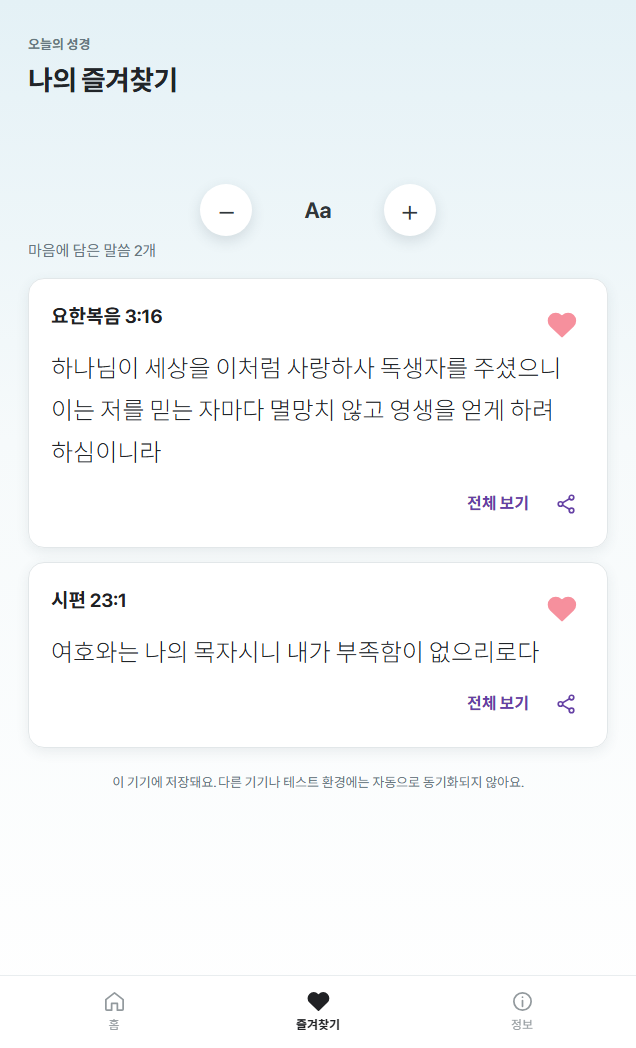
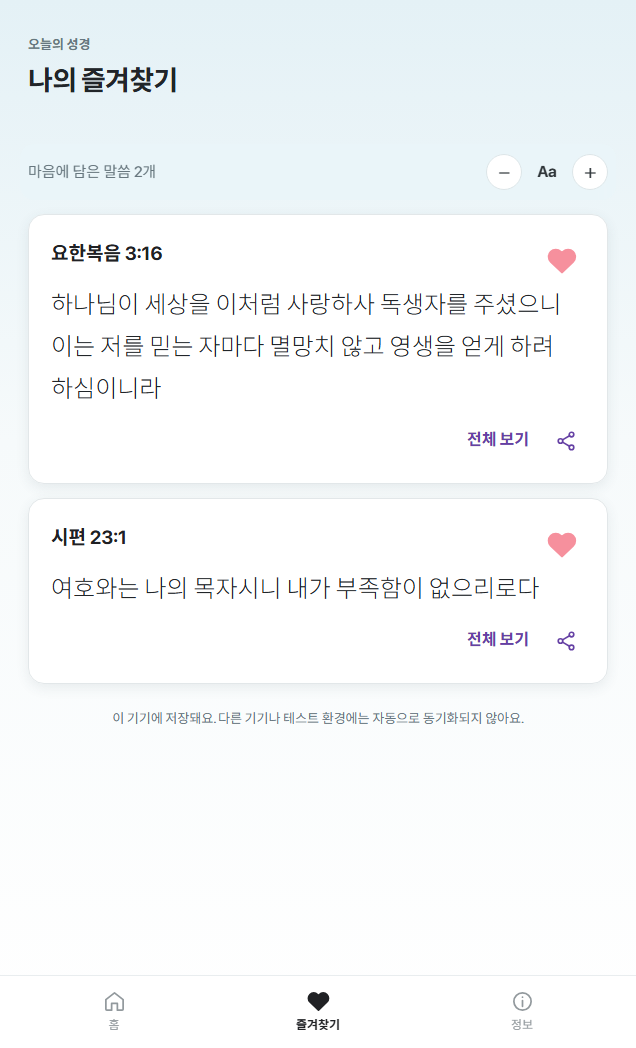
Compact favorite font controls

diff --git a/toss-miniapp/src/App.tsx b/toss-miniapp/src/App.tsx
@@ -125,8 +125,7 @@ export function App() {
           {fontControls}
         </section>}
         {route.page === 'favorites' && <>
-          {fontControls}
-          <p className="muted">마음에 담은 말씀 {prefs.favorites.length}개</p>
+          <div className="favorites-toolbar"><p className="muted">마음에 담은 말씀 {prefs.favorites.length}개</p>{fontControls}</div>
           {prefs.favorites.length === 0 ? <div className="empty"><h2>즐겨찾기한 말씀이 없습니다.</h2><Button variant="weak" onClick={() => go('today')}>말씀 읽으러 가기</Button></div> : prefs.favorites.map(id => bible.byId.get(id)).filter((v): v is Verse => !!v).map(v => <article key={v.id} className="favorite-card"><div className="favorite-heading"><h2 className="reference">{reference(v).replace('장 ', ':').replace('절', '')}</h2><button className="heart-button saved" aria-label="즐겨찾기 삭제" onClick={() => toggle(v)}><AppIcon name="heart" filled /></button></div><p className="verse-text" style={{ fontSize: prefs.fontSize }}>{v.text}</p><div className="favorite-footer"><button onClick={() => go(`chapter/${encodeURIComponent(v.id)}`)}>전체 보기</button><button aria-label="말씀 공유" onClick={() => void shareVerse(v)}><AppIcon name="share" /></button></div></article>)}
           <p className="footnote">이 기기에 저장돼요. 다른 기기나 테스트 환경에는 자동으로 동기화되지 않아요.</p>
         </>}

diff --git a/toss-miniapp/src/style.css b/toss-miniapp/src/style.css
@@ -44,6 +44,11 @@ blockquote { margin: 0; line-height: 1.75; letter-spacing: -.35px; overflow-wrap
 .bottom-nav button svg { width: 23px; height: 23px; }
 .bottom-nav button[aria-current] { color: #202124; font-weight: 700; }
 .favorite-card { padding: 23px 22px; margin: 14px 0; background: rgba(255,255,255,.97); border: 1px solid #e2e7e9; border-radius: 16px; box-shadow: 0 4px 13px rgba(55,76,88,.09); }
+.favorites-toolbar { position: sticky; top: 0; z-index: 4; display: flex; align-items: center; justify-content: space-between; gap: 16px; margin: 4px -8px 12px; padding: 9px 8px; border-radius: 14px; background: rgba(234,245,248,.9); backdrop-filter: blur(10px); }
+.favorites-toolbar .muted { margin: 0; white-space: nowrap; }
+.favorites-toolbar .font-controls { margin: 0; gap: 4px; }
+.favorites-toolbar .round-control { width: 36px; height: 36px; box-shadow: none; border: 1px solid #dce5e8; font-size: 21px; }
+.favorites-toolbar .font-reset { min-width: 42px; padding: 7px 8px; font-size: 16px; }
 .favorite-heading { display: flex; align-items: center; gap: 12px; }
 .favorite-heading .reference { flex: 1; }
 .favorite-footer { display: flex; justify-content: flex-end; align-items: center; gap: 10px; margin-top: 10px; }
